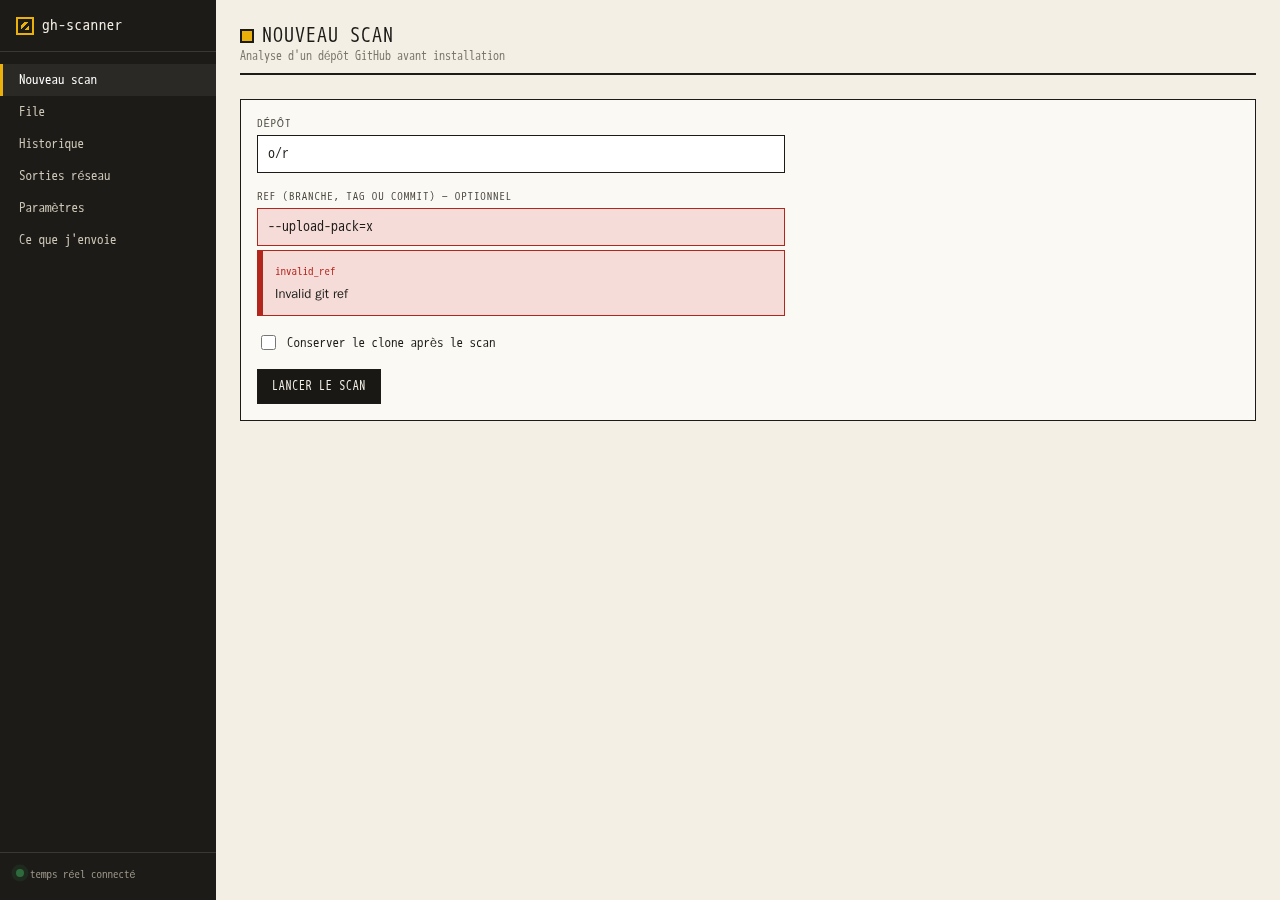
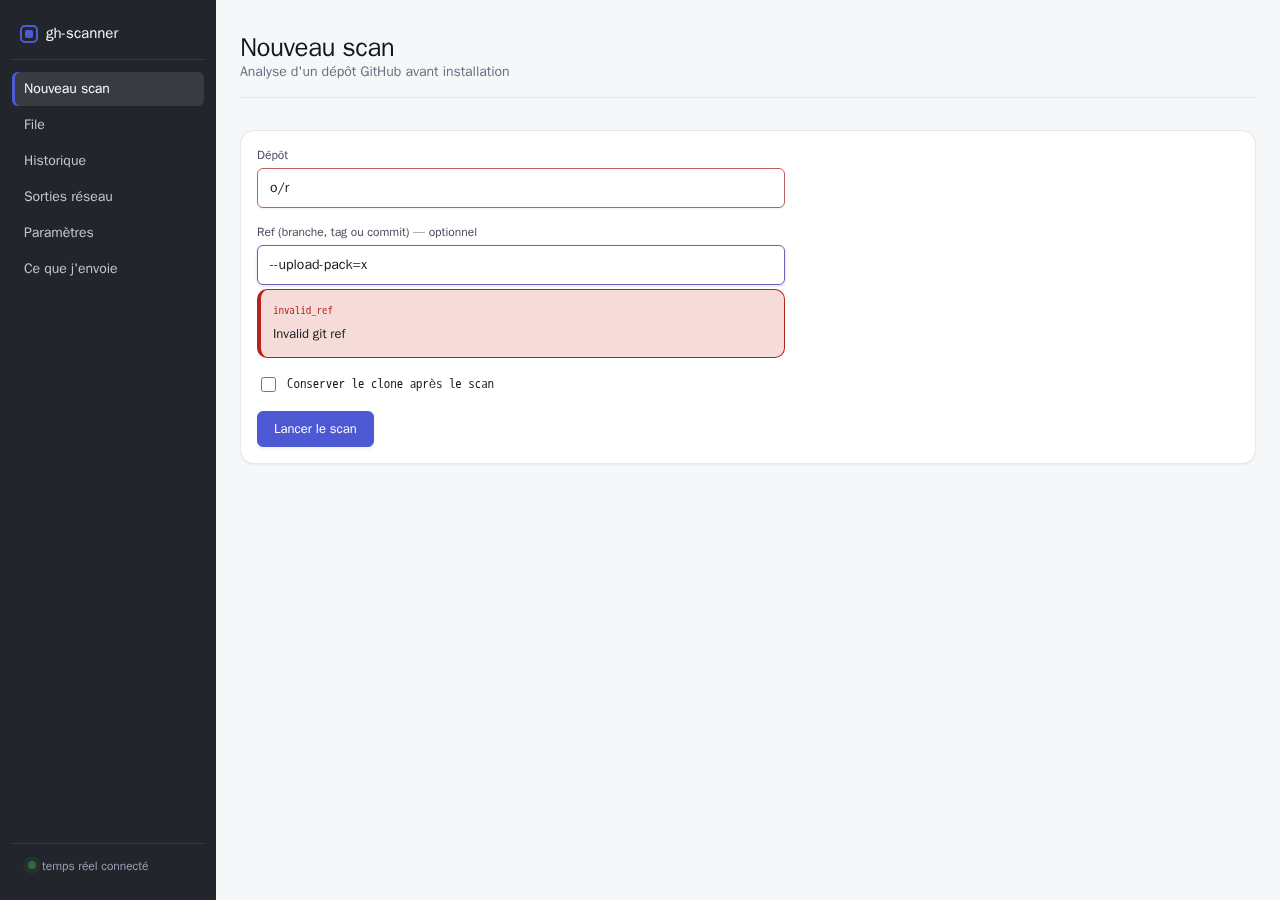
feat(t31): modernize global UI styles (tokens, shell, components)

diff --git a/web/src/styles/app.css b/web/src/styles/app.css
@@ -293,3 +293,107 @@ th{position:sticky;top:0;background:var(--card)}
 .chip{transition:background-color .15s,color .15s}
 button.chip{cursor:pointer}
 button.chip:hover:not(.on){background:var(--paper-2)}
+
+/* ---------- modern refresh (T31): system type, soft surfaces, pills ---------- */
+body{font:15px/1.6 var(--sans);letter-spacing:-.003em}
+a{color:var(--petrol);text-underline-offset:2px}
+h3{font:600 12px var(--sans);letter-spacing:.06em}
+.app{background:var(--paper)}
+.main{margin:0 auto;padding:var(--s6) var(--s5)}
+/* shell */
+.nav{background:rgba(20,23,31,.94);backdrop-filter:saturate(1.4) blur(10px);-webkit-backdrop-filter:saturate(1.4) blur(10px);padding:var(--s5) var(--s3)}
+.brand{font:700 15px var(--sans);letter-spacing:0;border-bottom:1px solid rgba(255,255,255,.1);padding:0 var(--s2) var(--s4)}
+.brand-mark{border-radius:5px;border-width:2px}
+.brand-mark:after{border-radius:2px;background:var(--quarantine)}
+.nav li a{font:500 14px var(--sans);border-left:0;border-radius:var(--r1);padding:8px var(--s3);margin-bottom:2px;color:#C3C8D4}
+.nav li a.on{background:rgba(255,255,255,.1);color:#fff;box-shadow:inset 3px 0 0 var(--quarantine)}
+.nav li a:hover:not(.on){background:rgba(255,255,255,.06)}
+.nav .badge{font:700 11px var(--sans);border-radius:999px;padding:1px 7px}
+.nav-foot{font:12px/1.7 var(--sans);border-top-color:rgba(255,255,255,.1);color:#9AA1B2}
+.page-h{border-bottom:1px solid var(--rule);padding-bottom:var(--s4);margin-bottom:var(--s6)}
+.page-h h2{font:700 26px/1.2 var(--sans);text-transform:none;letter-spacing:-.02em}
+.page-h h2:before{display:none}
+.page-h .sub{font:14px var(--sans)}
+/* surfaces */
+.panel,.scan-card,.verdict,.state,.frontier,.login,.receipt,.finding,.status-line{border:1px solid var(--rule);border-radius:var(--r3);box-shadow:var(--sh1)}
+.panel{padding:var(--s5)}
+.scan-card,.verdict,.frontier,.login{overflow:hidden}
+.scan-card .head{background:var(--ink);font:13px var(--sans)}
+.scan-card .head b{color:#B7BEFF}
+.receipt:before,.receipt:after{display:none}
+.finding{border-radius:var(--r2);margin-bottom:var(--s2)}
+.finding:hover{box-shadow:var(--sh2)}
+.finding.crit,.finding.high,.finding.medium,.finding.low{border-left-width:4px}
+.counters{border:1px solid var(--rule);border-radius:var(--r3);overflow:hidden;background:var(--card);box-shadow:var(--sh1)}
+.counters div{border-right-color:var(--rule);font:600 11px var(--sans)}
+.stamp{border-radius:var(--r2);border-width:3px;font-family:var(--sans)}
+.score{font-family:var(--sans);letter-spacing:-.03em}
+.node,.dest,.device span{border-radius:var(--r2);border-color:var(--rule-strong)}
+.dest{border-left-width:4px}
+.bar,.gauge .meter{border-radius:999px;overflow:hidden}
+.bar{height:8px}
+.bar i{border-radius:999px}
+.gauge .meter{border:0;background:var(--paper-2);height:10px}
+.gauge .meter i{border-radius:999px;background:var(--petrol)}
+.st:after{border-radius:50%}
+.st:before{border-radius:2px}
+.st.done:before,.st.done:after{background:var(--petrol);border-color:var(--petrol)}
+.st.active:before{background:linear-gradient(90deg,var(--petrol) 50%,var(--rule-strong) 50%)}
+.st.active:after{border-color:var(--petrol);background:var(--card)}
+.term,pre.snip{border-radius:var(--r2)}
+.tape{display:none}
+.err-box,.alert{border-radius:var(--r2);border-left-width:4px}
+.hazard-tape{border-radius:999px;height:6px!important;opacity:.7}
+/* buttons */
+.btn{font:600 13px var(--sans);text-transform:none;letter-spacing:0;border:1px solid var(--rule-strong);border-radius:var(--r1);padding:8px 16px;box-shadow:var(--sh1);transition:background-color .15s,border-color .15s,box-shadow .15s,transform .1s}
+.btn:hover:not(:disabled){background:var(--paper-2);border-color:var(--ink-3);box-shadow:var(--sh2)}
+.btn.primary{background:var(--quarantine);border-color:var(--quarantine);color:#fff}
+.btn.primary:hover:not(:disabled){background:#3F4BC0;border-color:#3F4BC0}
+.btn.danger{background:var(--card);border-color:var(--crit);color:var(--crit)}
+.btn.ghost{background:transparent;border-color:transparent;box-shadow:none}
+.btn.ghost:hover:not(:disabled){background:var(--paper-2);box-shadow:none}
+.btn.sm{padding:4px 10px;font-size:12px}
+.btn:focus-visible,a:focus-visible,button:focus-visible,select:focus-visible,input:focus-visible,[tabindex]:focus-visible,.finding summary:focus-visible{outline:2px solid var(--quarantine);outline-offset:2px}
+.btn:disabled{opacity:.5;box-shadow:none}
+/* forms */
+.field label{font:600 12px var(--sans);text-transform:none;letter-spacing:0}
+.field input,.field select{font:14px var(--sans);border:1px solid var(--rule-strong);border-radius:var(--r1);padding:10px 12px;box-shadow:var(--sh1);transition:border-color .15s,box-shadow .15s}
+.field input.mono,.field input[name=repo],.field input[name=ref]{font-family:var(--mono);font-size:13px}
+.field input:hover,.field select:hover{border-color:var(--ink-3)}
+.field input:focus,.field select:focus{outline:0;border-color:var(--quarantine);box-shadow:0 0 0 3px rgba(79,91,213,.25)}
+.field input:disabled,.field select:disabled{background:var(--paper-2);color:var(--ink-3);cursor:not-allowed}
+.field input.err{border-color:var(--crit);background:#fff}
+.hint{font:13px var(--sans)}
+.secret input{background:var(--paper-2)!important}
+input[type=checkbox]{accent-color:var(--quarantine)}
+::selection{background:#C9CEFA;color:var(--ink)}
+/* pills */
+.chip,.ws-pill,.tag,.sev,.mini-stamp{border-radius:999px}
+.chip{font:500 13px var(--sans);padding:3px 12px}
+.chip.on{background:var(--quarantine);border-color:var(--quarantine);color:#fff}
+.chip:focus-visible,button.chip:focus-visible{outline-offset:1px}
+.tag{font:500 11px var(--sans);border:1px solid var(--rule-strong);padding:1px 8px}
+.sev{font:600 11px var(--sans);text-transform:capitalize;letter-spacing:.01em;padding:2px 10px;border:0}
+.sev:before{content:"";width:6px;height:6px;border-radius:50%;background:currentColor;flex:none}
+.ws-pill{font:13px var(--sans)}
+/* tables */
+table{font-size:14px}
+th{font:600 12px var(--sans);text-transform:none;letter-spacing:.01em;padding:10px 12px;border-bottom:1px solid var(--rule);background:var(--card)}
+td{padding:12px;border-bottom:1px solid var(--rule)}
+tbody tr:last-child td{border-bottom:0}
+tbody tr:hover td{background:var(--paper)}
+tr.blocked td{background:var(--crit-bg)}
+tr.blocked:hover td{background:#F2CBC6}
+.tabs{border-bottom-color:var(--rule)}
+.tabs span{font:600 13px var(--sans);text-transform:none;letter-spacing:0;border-radius:var(--r1) var(--r1) 0 0}
+.tabs span.on{border-color:var(--rule);border-bottom-color:var(--card)}
+.queue-row{font:14px var(--sans);border-bottom:1px solid var(--rule)}
+.pos{border-radius:50%;border-color:var(--petrol);color:var(--petrol)}
+@media (max-width:760px){
+  .nav{padding:0 var(--s2);position:sticky;top:0;z-index:5;height:auto}
+  .brand{border:0;padding:10px 8px}
+  .nav li a{border-radius:var(--r1);margin:4px 2px;padding:8px 10px}
+  .nav li a.on{box-shadow:none}
+  .main{padding:var(--s4)}
+  .page-h h2{font-size:22px}
+}

diff --git a/web/src/styles/tokens.css b/web/src/styles/tokens.css
@@ -1,14 +1,15 @@
 :root{
-  --paper:#F3EFE4; --paper-2:#EAE4D3; --card:#FBF9F3; --ink:#1C1B18; --ink-2:#4A4740; --ink-3:#7A766B;
-  --rule:#D8D0BC; --rule-strong:#B9AF96;
-  --quarantine:#E9B10A; --quarantine-ink:#2A2200;
+  --paper:#F6F7F9; --paper-2:#EDEFF3; --card:#FFFFFF; --ink:#14171F; --ink-2:#454B5A; --ink-3:#697082;
+  --rule:#E4E7EC; --rule-strong:#CDD2DB;
+  --quarantine:#4F5BD5; --quarantine-ink:#fff;
   --crit:#B3261E; --crit-bg:#F6DCD8; --high:#C2541A; --high-bg:#F7E2D2; --med:#8C6E00; --med-bg:#F3E8C4;
-  --low:#2F6488; --low-bg:#DCE7EF; --info:#6E6A60; --info-bg:#E6E2D7;
-  --ok:#2E6B3C; --ok-bg:#DCEBDD; --petrol:#1F4E5F; --petrol-bg:#D7E4E8;
-  --term:#151513; --term-ink:#D9D4C3;
+  --low:#2F6488; --low-bg:#DCE7EF; --info:#5F6676; --info-bg:#E9ECF1;
+  --ok:#2E6B3C; --ok-bg:#DCEBDD; --petrol:#3B47B8; --petrol-bg:#E4E7FA;
+  --term:#12151C; --term-ink:#D9D4C3;
   --mono: ui-monospace,"SFMono-Regular","Cascadia Mono","DejaVu Sans Mono",Menlo,Consolas,monospace;
   --sans: system-ui,-apple-system,"Segoe UI",Roboto,"Helvetica Neue",Arial,sans-serif;
   --s1:4px; --s2:8px; --s3:12px; --s4:16px; --s5:24px; --s6:32px; --s7:48px;
+  --r1:6px; --r2:10px; --r3:14px; --sh1:0 1px 2px rgba(16,24,40,.06); --sh2:0 4px 12px rgba(16,24,40,.08); --sh3:0 12px 28px rgba(16,24,40,.12);
 }
 *{box-sizing:border-box}
 html,body{margin:0}

diff --git a/docs/PROGRESS.md b/docs/PROGRESS.md
@@ -63,3 +63,6 @@
 - 2026-10-21T13:40:43.991Z — audit: éléments partiels restants (F6, F15) — voir docs/FEATURE_AUDIT.md
 - 2026-10-21T13:42:20.110Z — vérification finale OK — prêt à déployer
 - 2026-10-21T14:37:42.000Z — `SCANNER_DATA_DIR` : le défaut passe de `/data` à `<app>/data` (résolu en absolu). `npm run start` sur un PC échouait avec `EACCES: permission denied, mkdir '/data'`. L'image Docker fixe toujours `SCANNER_DATA_DIR=/data` (Dockerfile + compose). Contrat mis à jour dans INTERFACES.md.
+
+## T31 — Rafraîchissement visuel
+Style global modernisé (tokens.css + bloc « modern refresh » en fin d'app.css) : polices système, palette sobre à accent unique indigo, rayons/ombres/spacing, boutons primaire/secondaire/fantôme, champs, badges en pilules, tableaux, nav sticky translucide. Aucun changement de structure, de contrat ni de ressource externe.
